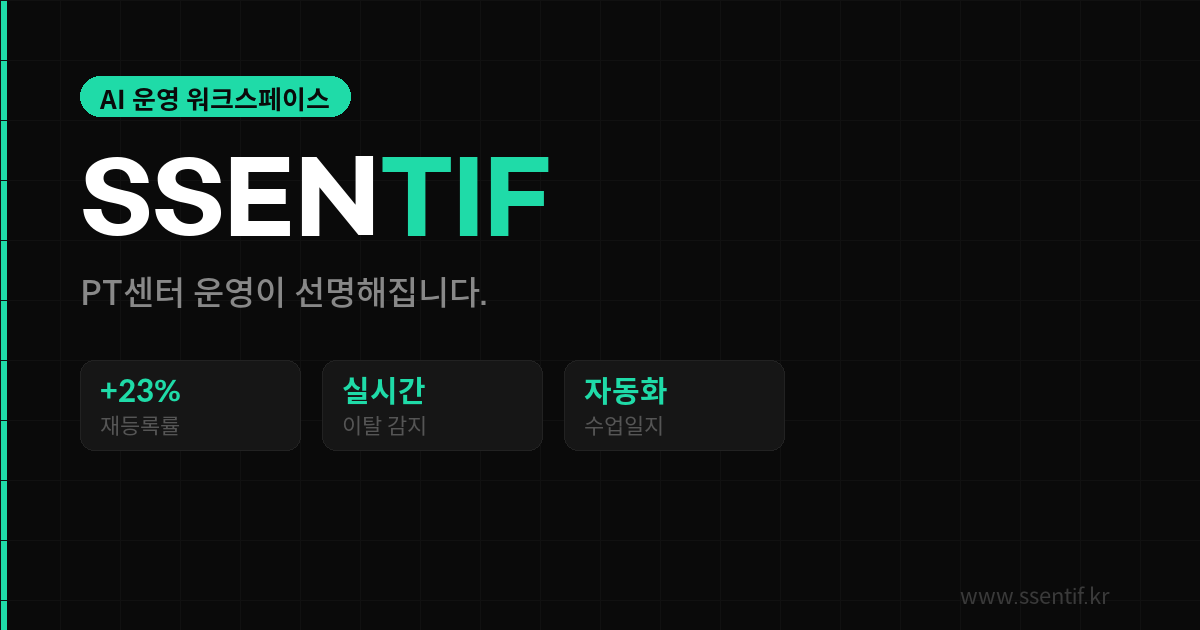
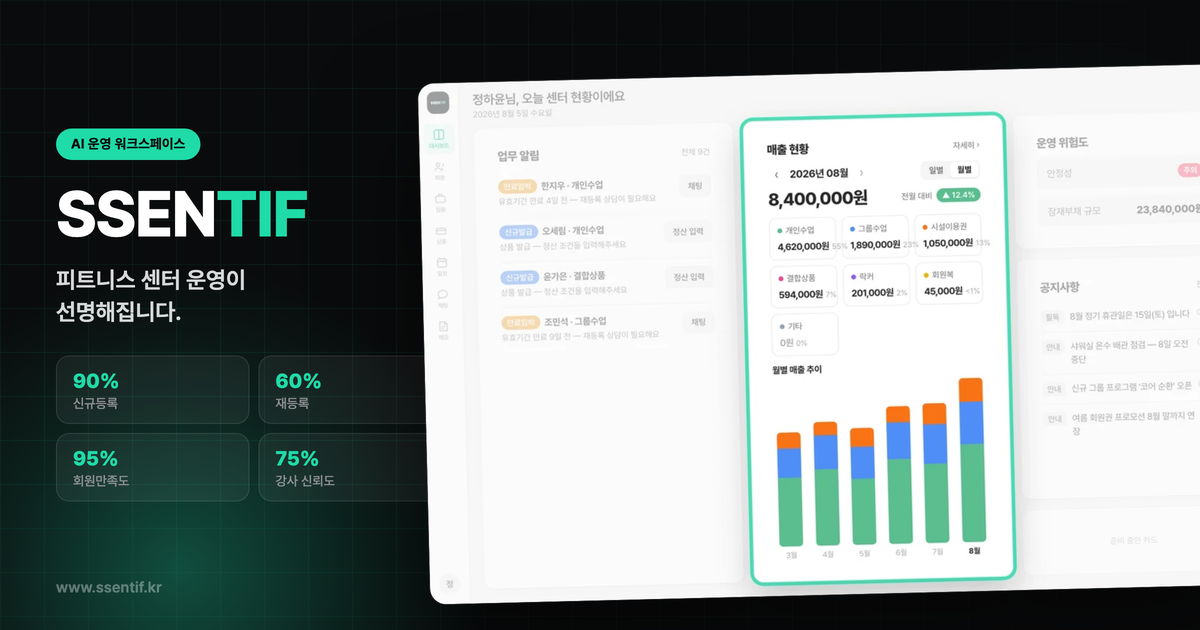
og-image 태블릿 레이아웃 개편 + 이탈 위험 감지 회원 프로필 사진 반영
- og-image.png: 카피 '피트니스 센터 운영이 선명해집니다.' 로 변경, 태블릿 화면(매출현황 강조)을
  크게 확대해 배치, 지표를 신규등록90%·재등록60%·회원만족도95%·강사신뢰도75% 4종으로 교체
- 히어로/모드쇼케이스 대시보드: '이탈 위험 감지' 6명(배수진·조민석·윤가은·오세림·강태윤·한지우)
  이니셜 원형 배지를 실제 얼굴 사진으로 교체 (리안 캐릭터 + 관리자/강사/회원 캐릭터 자산 활용)
- assets/avatars/ 신규 — 크롭된 회원 아바타 원본 6장

diff --git a/index.html b/index.html
@@ -676,7 +676,7 @@
 
             <!-- 실제 앱 캡처: 관리자 대시보드 (2026-07-23 교체) -->
             <!-- 스크롤 rotateX/scale 애니메이션은 상위 #heroCardScrollWrap에 걸려있어 이 안쪽을 바꿔도 유지됨 -->
-            <img src="assets/app/ssentif-hero-dashboard.webp?v=1785917747" width="2496" height="1568"
+            <img src="assets/app/ssentif-hero-dashboard.webp?v=1786438654" width="2496" height="1568"
                  alt="센티프 관리자 대시보드 — 업무 알림, 카테고리별 매출 현황, 운영 위험도를 한 화면에서 확인"
                  fetchpriority="high" decoding="async"
                  style="width:100%;height:100%;object-fit:cover;display:block;">
@@ -1399,7 +1399,7 @@
                   <div class="ms-browser-url">app.ssentif.kr</div>
                 </div>
                 <div class="ms-browser-body">
-                  <img src="assets/app/ssentif-admin-dashboard.webp?v=1785917747" width="1014" height="637"
+                  <img src="assets/app/ssentif-admin-dashboard.webp?v=1786438654" width="1014" height="637"
                        alt="센티프 관리자 대시보드 — 업무 알림, 매출 현황 카테고리별 집계, 운영 위험도"
                        loading="lazy" decoding="async">
                 </div>
